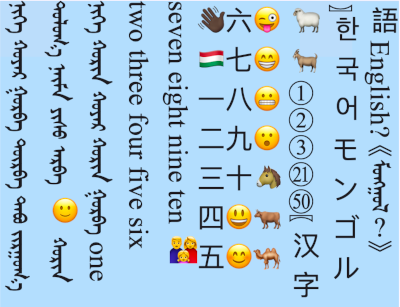
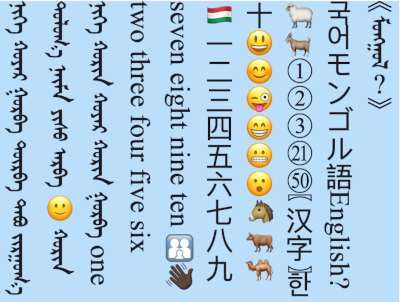
fix alignment and spacing with rotated characters (#10, #48)

diff --git a/lib/src/base/mongol_paragraph.dart b/lib/src/base/mongol_paragraph.dart
@@ -496,16 +496,27 @@ class MongolParagraph {
     final startIndex = line.textRunStart;
     final endIndex = line.textRunEnd - 1;
     for (var j = startIndex; j <= endIndex; j++) {
+      final run = _runs[j];
+
+      var alignmentOffset = 0.0;
+      if (run.isRotated) {
+        alignmentOffset = (line.bounds.height - run.width) / 2;
+      }
+      var verticalShift = 0.0;
+      if (run.isRotated) {
+        final descent = run.paragraph.height - run.paragraph.alphabeticBaseline;
+        verticalShift = -descent / 2;
+      }
+      final offset = Offset(verticalShift, alignmentOffset);
+
       if (shouldDrawEllipsis && isLastLine && j == endIndex) {
         if (maxIntrinsicHeight + _ellipsis!.height < height) {
-          final run = _runs[j];
-          run.draw(canvas, const Offset(0, 0));
+          run.draw(canvas, offset);
           canvas.translate(run.width, 0);
         }
         _ellipsis!.draw(canvas, const Offset(0, 0));
       } else {
-        final run = _runs[j];
-        run.draw(canvas, const Offset(0, 0));
+        run.draw(canvas, offset);
         canvas.translate(run.width, 0);
       }
       canvas.translate(runSpacing, 0);
@@ -1295,30 +1306,23 @@ class _TextRun {
   /// It includes the size but should never be more than one line.
   final ui.Paragraph paragraph;
 
-  /// Returns the width of the run (in horizontal orientation) taking into account
-  /// whether it [isRotated].
+  /// Returns the width of the run (in horizontal orientation).
   double get width {
-    if (isRotated) {
-      return paragraph.height;
-    }
     return paragraph.maxIntrinsicWidth;
   }
 
-  /// Returns the height of the run (in horizontal orientation) taking into account
-  /// whether it [isRotated].
+  /// Returns the height of the run (in horizontal orientation).
   double get height {
-    if (isRotated) {
-      return paragraph.maxIntrinsicWidth;
-    }
     return paragraph.height;
   }
 
   void draw(ui.Canvas canvas, ui.Offset offset) {
     if (isRotated) {
       canvas.save();
+      canvas.translate(offset.dx, offset.dy);
       canvas.rotate(-math.pi / 2);
-      canvas.translate(-height, 0);
-      canvas.drawParagraph(paragraph, offset);
+      canvas.translate(-paragraph.maxIntrinsicWidth, 0);
+      canvas.drawParagraph(paragraph, const ui.Offset(0, 0));
       canvas.restore();
     } else {
       canvas.drawParagraph(paragraph, offset);
